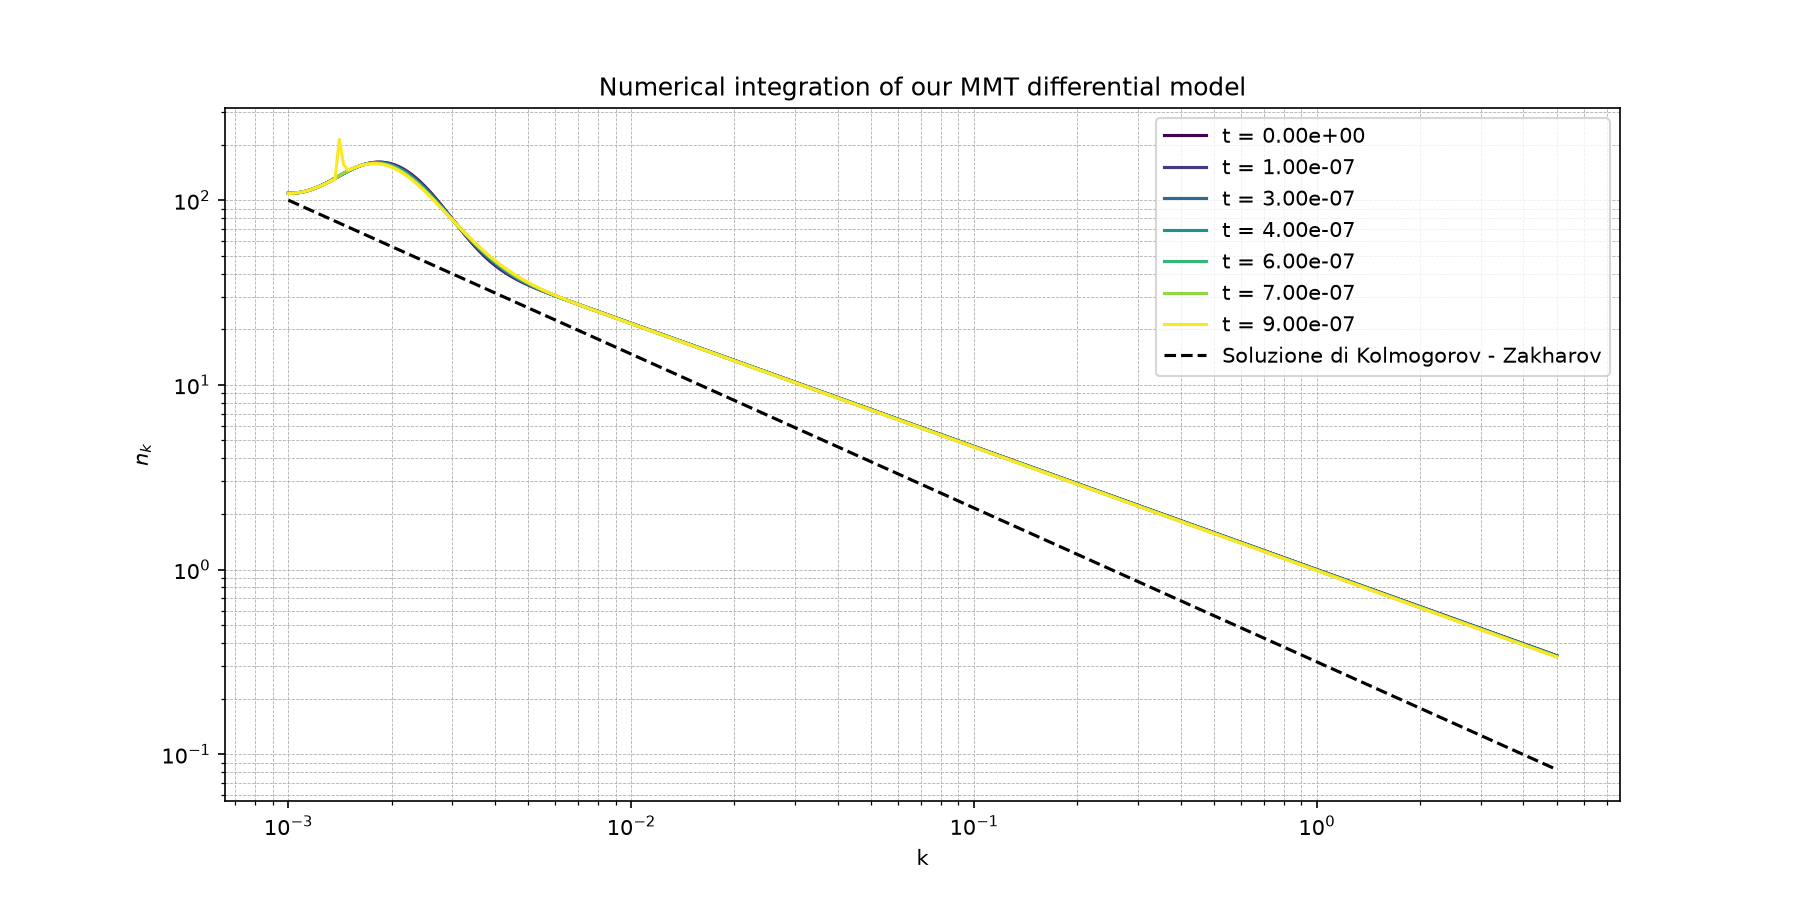
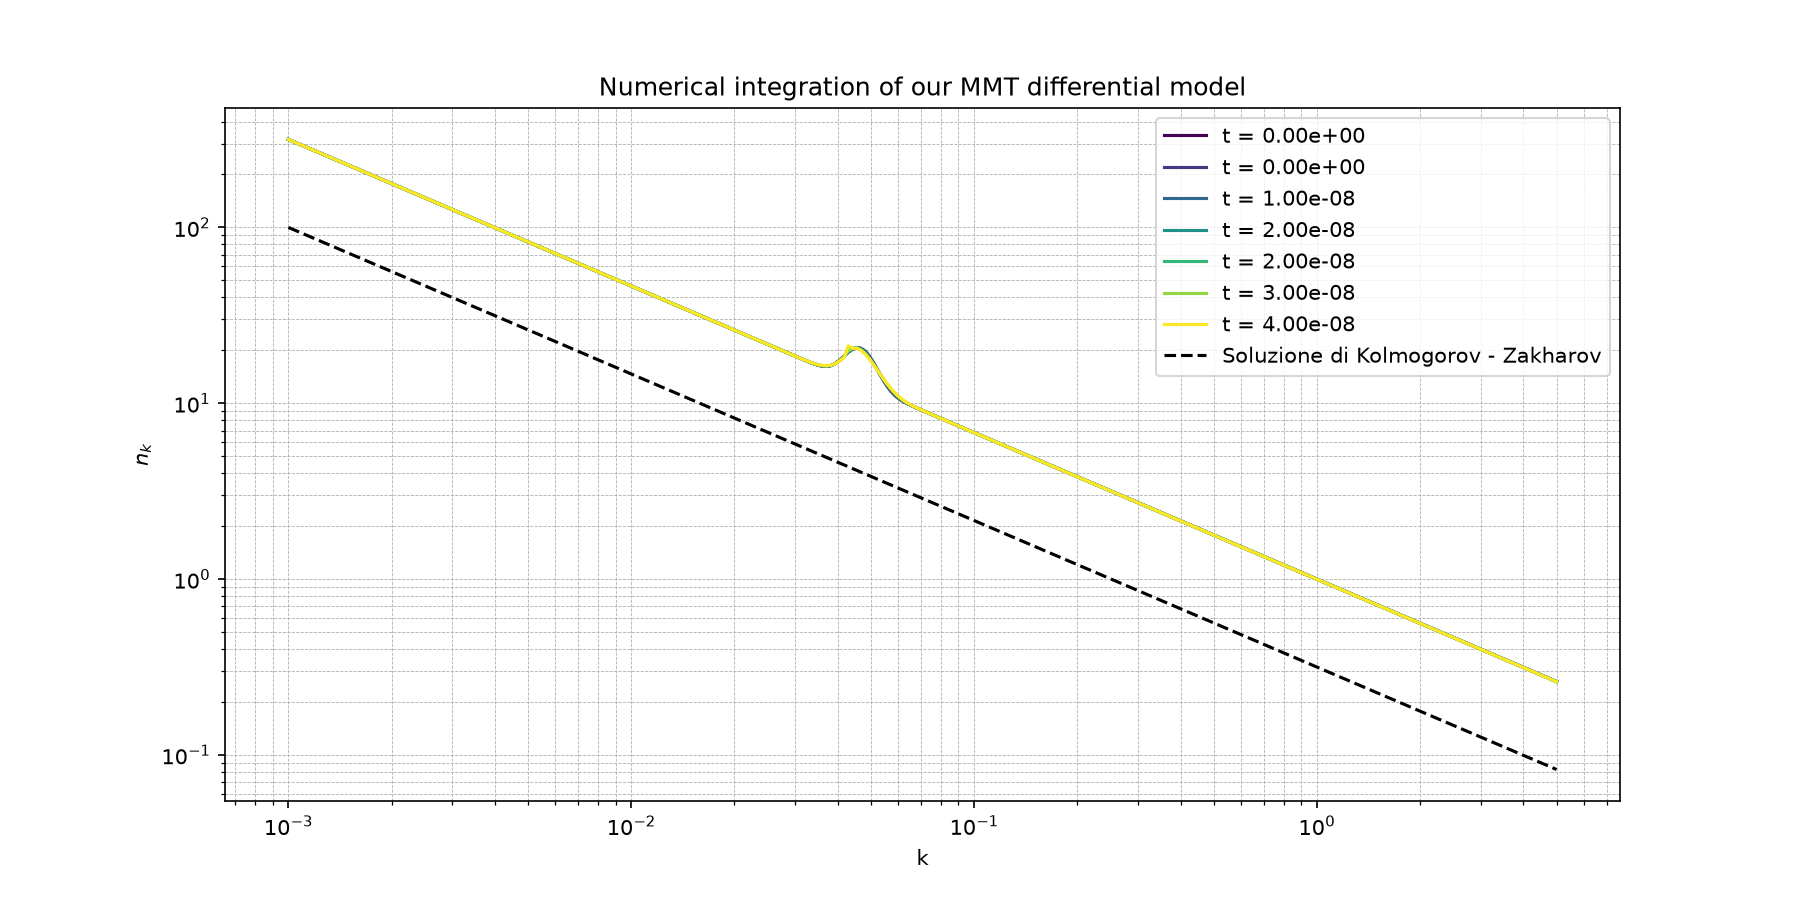
Refactor initial conditions and time step for integration; update output images for Gaussian results

diff --git a/main_DAM.py b/main_DAM.py
@@ -6,10 +6,10 @@ eta1 = 216
 eta2 = 162
 
 k, dlnk = k_space(1e-3, 5, 300)
-k0 = k[25] 
+k0 = k[135] 
 
-n_k = initial_condition(1.0, k, -2/3)
-n_k_gaus = initial_condition_gaussian(1.0, k, k0, 1.5, 0.3, -2/3)
+n_k = initial_condition(1.0, k, -5/6)
+n_k_gaus = initial_condition_gaussian(1.0, k, k0, 0.6, 0.1, -5/6)
 
 n_left_fix = n_k[:6].copy() 
 n_left_fix_g = n_k_gaus[:6].copy()
@@ -28,7 +28,7 @@ ts, ns = integrate_chunked(
 )
 
 tsg, nsg = integrate_chunked(
-    rhs, n_k_gaus, (0.0, 1.0), dt_chunk=1e-7,
+    rhs, n_k_gaus, (0.0, 1.0), dt_chunk=1e-8,
     apply_bc_func=apply_bc,
     bc_args=(k, n_left_fix_g, 6, 6, 4),
     rhs_args=(k, n_left_fix_g, dlnk, eta1, eta2),

diff --git a/DAM.py b/DAM.py
@@ -26,7 +26,7 @@ def dndk_upwind(n, k, dlnk):
 def d2ndk2_center(n, k, dlnk):
 
     M = np.zeros_like(n)
-    M[1:] = (n[1:] - n[:-1]) / dlnk
+    M[1:-1] = (n[2:]-n[:-2]) / (2*dlnk)
     d2n_dlnk2 = np.zeros_like(n)
     d2n_dlnk2[1:-1] = (n[2:] - 2 * n[1:-1] + n[:-2]) / dlnk ** 2
 
@@ -53,7 +53,7 @@ def apply_bc(n, k, n_left_fix, buf_left = 6, buf_right = 6, fit_points = 2):
 def rhs(t, n, k, n_left_fix, dlnk , eta1, eta2):
 
     n = apply_bc(n, k, n_left_fix, buf_left = 6, buf_right = 6, fit_points = 4)
-    n = np.maximum(n, 1e-10)
+    #n = np.maximum(n, 1e-10)
 
     dndk = dndk_upwind(n, k, dlnk)
     d2ndk2 = d2ndk2_center(n, k, dlnk)
